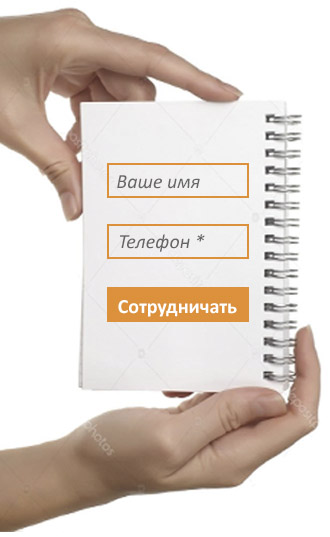
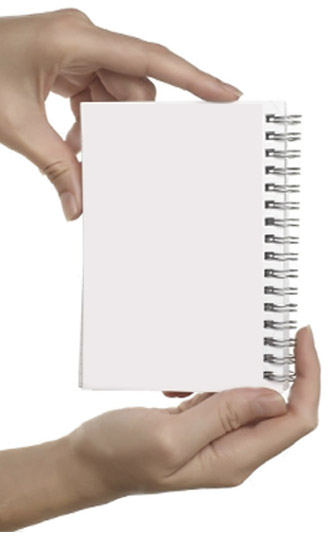
Final version

diff --git a/index.html b/index.html
@@ -22,13 +22,15 @@
         <a class="header-phone" href="tel:88005001415">8-800-500-14-15</a>
     </header>
     <section class="hero">
-        <div class="hero-text">У Вас <b>фотосалон</b>?<br>
-            Зарабатывайте больше,<br>
-            предлагая клиентам<br>
-            полиграфию
+        <div class="text">У Вас <b>фотосалон</b>?
+            <br>Зарабатывайте больше,
+            <br>предлагая клиентам
+            <br>полиграфию
         </div>
-        <input type="text" placeholder="Ваш телефон">
-        <div class="button">Перезвоните мне</div>
+        <div class="form-wrapper">
+            <input type="text" class="input" placeholder="Ваш телефон">
+            <input type="button" class="button" value="Перезвоните мне">
+        </div>
     </section>
     <section class="s1">
         <h2 class="h2">Единственный в мире ТОЧНЫЙ КАЛЬКУЛЯТОР СТОИМОСТИ – только в типографии «Новатум»</h2>
@@ -44,12 +46,17 @@
             <br>Ваш фотосалон сэкономит время + заработает на каждом заказе.
         </div>
         <div class="form-wrapper">
-            <input type="text" placeholder="Как к Вам обращаться">
-            <input type="text" placeholder="Ваш телефон">
+            <input type="text" class="input" placeholder="Как к Вам обращаться">
+            <input type="text" class="input" placeholder="Ваш телефон">
             <input type="button" class="button" value="Начать сотрудничество">
         </div>
     </section>
     <section class="s3">
+        <div class="form-wrapper">
+            <input type="text" class="input" placeholder="Ваше имя">
+            <input type="text" class="input" placeholder="Телефон">
+            <input type="button" class="button" value="Сотрудничать">
+        </div>
         <h2 class="h2-work">Как мы <span class="h2-work-select">работаем?</span></h2>
         <ul>
             <li>Оставьте заявку на партнёрство</li>
@@ -58,7 +65,7 @@
             <li>Клиенты оплачивают заказы с вашей наценкой.</li>
             <li>Мы возвращаем наценку на Ваш расчётный счет. Ваша наценка = Ваш чистый доход<sup>*</sup>.</li>
         </ul>
-        * за вычетом 6% налога на прибыль. Налог вычитается только с наценки, а не со всего заказа.
+        <div class="text-remark">* за вычетом 6% налога на прибыль. Налог вычитается только с наценки, а не со всего заказа.</div>
     </section>
     <section class="s4">
         <h2 class="h2 text-center">ГЛАВНОЕ ОТЛИЧИЕ «НОВАТУМ»</h2>
@@ -75,25 +82,25 @@
     </section>
     <section class="s5">
         <h2 class="h2">Как это возможно?</h2>
-        <div class="text">В Вашем личном кабинете будет уникальный калькулятор стоимости, который учитывает ВСЕ параметры. Да-да, абсолютно все, несколько сотен коэффициентов. Вы сами за пару минут вычислите стоимость любого заказа.  Больше не нужно звонить менеджерам, ждать расчета стоимости, согласовывать правки – вся рутина в прошлом. Можете оценить наш калькулятор прямо сейчас.</div>
+        <div class="text">В Вашем личном кабинете будет уникальный калькулятор стоимости, который учитывает ВСЕ параметры. Да-да, абсолютно все, несколько сотен коэффициентов. Вы сами за пару минут вычислите стоимость любого заказа.  Больше не нужно звонить менеджерам, ждать расчета стоимости, согласовывать правки – вся рутина в прошлом. Можете оценить наш <a href="calculator.novatum.ru">калькулятор</a> прямо сейчас.</div>
         <h2 class="h2">Почему в «Новатум» цены ниже?</h2>
-        <div class="text">Вы – профессионал в дизайне, поэтому предоставляете макеты без ошибок. Это экономит Типографии массу времени: не нужно проверять макеты вручную, править, согласовывать. Макеты проходят только автоматическую проверку. Это позволяет предложить самые низкие цены в Москве и Московской области. 
-            <br>Убедитесь сами, рассчитав заказ в калькуляторе стоимости. Например:
+        <div class="text">Вы – профессионал в дизайне, поэтому предоставляете макеты без ошибок. Это экономит Типографии массу времени: не нужно проверять макеты вручную, править, согласовывать. Макеты проходят только автоматическую проверку. Это позволяет предложить самые низкие цены в Москве и Московской области. <br>Убедитесь сами, рассчитав заказ в <a href="calculator.novatum.ru">калькуляторе стоимости</a>. Например:
             <br>100 визиток (4+0) – 200 р (среднерыночная цена 500 р, Ваша наценка может быть 150%). 
             <br>1000 листовок (4+0, А6) – 1000 р (среднерыночная цена 2000 р, ваша наценка 100%)
         </div>
-        <div class="button">Стать партнером</div>
+        <input type="button" class="button" value="Стать партнером">
     </section>
     <section class="s6">
         <h2 class="h2">Сколько времени займет подключение к “Новатум”?</h2>
         <div class="text">Всего ОДИН день. После подписания договора, мы пришлем Вам индивидуальную ссылку на калькулятор. Поздравляем! Можно начать зарабатывать</div>
         <h2 class="h2">Сколько стоит партнерство?</h2>
         <div class="text">Это <b>БЕСПЛАТНО</b>.
-            <br>Мы зарабатываем исключительно на печати и делимся прибылью с Вами.</div>
+            <br>Мы зарабатываем исключительно на печати и делимся прибылью с Вами.
+        </div>
     </section>
     <section class="s7">
         <h1 class="h1">Новатум. Типография, которую Вы ждали</h1>
-        <div class="text">«Новатум» – дочерний проект сети типографий «Компания ИРМ-1», которые работают в Москве и Московской области с 1997 года. 
+        <div class="text">«Новатум» – дочерний проект сети типографий «Компания ИРМ-1», которые работают в Москве и Московской области <span class="text-accent">с 1997 года</span>. 
             <br>Наша формула успеха = гигантский опыт + новейшие технологии.</div>
         <div class="text">Оцените преимущество работы с профессионалами:</div>
         <input type="button" class="button" value="Начать сотрудничество">

diff --git a/mobile.css b/mobile.css
@@ -19,10 +19,23 @@ a {
 .main-wrapper {
     margin:0 auto;
     background-color:#fff;
+    min-width:420px;
 }
 
-.text :not(last-child){
+.text {
     margin-bottom:1rem;
+}
+
+.hero > .text {
+    font-size:1.5rem;
+    position:absolute;
+    bottom:30px;
+    right:125px;
+}
+
+.text-accent {
+    color: rgb(237,120,0);
+    font-weight:700;
 }
 
 .header, .footer {
@@ -76,26 +89,65 @@ a {
 }
 
 section {
-    padding:2rem 2rem;
+    padding:0.5rem 2rem;
     font-size:1rem;
     background-position: bottom right;
     display:flex;
     flex-direction:column;
+    padding-bottom:2rem;
 }
 
 .hero {
     background-image: url("/pic/01.jpg");
     position:relative;
-    height: 480px;
+    min-height: 480px;
     color:white;
     background-position: 100% 100%;
+    padding-top: 115px;
+    padding-left: 80px;
 }
 
 .s2 {
     background-image: url("/pic/02.jpg");
     position:relative;
-    height: 600px;
+    min-height: 600px;
     color:white;
+}
+
+.s3 {
+    background-image: url("/pic/03.jpg");
+    background-position:left top;
+    position:relative;
+    background-repeat:no-repeat;
+    min-height:537px;
+    /* padding-left:350px; */
+    padding-left:4rem;
+    padding-top:500px;
+}
+
+.s3 li {
+    background: url("/pic/marker.png") no-repeat left center;
+    /* min-height:59px; */
+    padding: 1rem 0 1rem 60px;
+}
+
+.s3 > .form-wrapper {
+    width:145px;
+    height:160px;
+    position:absolute;
+    left:100px;
+    top:160px;
+}
+
+.s3 > .form-wrapper > .button {
+    padding:0.5rem;
+    font-size:1rem;
+}
+
+.text-remark {
+    font-size:0.7rem;
+    font-style:italic;
+    padding-top:1rem;
 }
 
 .s4 {
@@ -110,38 +162,27 @@ section {
 
 .column {
     width:45%;
-
 }
 
 .s5 {
     background-image: url("/pic/04.jpg");
     position:relative;
-    height: 560px;
+    min-height: 560px;
     color:white;
 }
 
-.s5 .button {
-    width:18rem;
-    height:2.7rem;
-    margin-top:1rem;
-}
+
 
 .s7 {
     background-image: url("/pic/05.jpg");
     position:relative;
-    height: 510px;
+    min-height: 510px;
     color:white;
     align-items:center;
     font-size:1.2rem;
     justify-content:center;
     padding: 2rem 4rem;
     text-align:center;
-}
-
-.s7 .button {
-    width:18rem;
-    height:3.2rem;
-    margin-top:2rem;
 }
 
 .h3 {
@@ -154,14 +195,16 @@ section {
     color: rgb(237,120,0);
     font-size:1.2rem;
     font-weight:bold;
-    margin-bottom:1.2rem;
+    display:block;
+    padding:1.2rem 0;
 }
 
-.h2 :not(first-child) {
-    margin-top:1.2rem;
+.text + .h2{
+    padding-top:0;
 }
 
 .h2-work {
+    padding:1.2rem 0;
     font-weight:300;
     text-transform:uppercase;
 }
@@ -185,18 +228,73 @@ section {
 
 .button {
     color: white;
-    background-color: rgb(237,120,0);
-    padding:0.5rem;
+    background-color:rgb(237,120,0);
+    padding:1rem;
     font-weight:700;
     font-size:1.2rem;
     text-align:center;
-    max-width:21rem;
     cursor:pointer;
+}
+
+.button:active {
+    border-left: 1px #777 solid;
+    border-top: 1px #777 solid;
+    border-right: 1px white solid;
+    border-bottom: 1px white solid;
+}
+
+section > .button {
     align-self:center;
+}
+
+.s5 .button {
+    width:18rem;
+    height:3.2rem;
+    margin-top:1rem;
+}
+
+.s7 .button {
+    width:18rem;
+    height:3.2rem;
+    margin-top:2rem;
+}
+
+.input {
+    border: 3px rgb(237,120,0) solid;
+    margin-bottom: 1rem;
+    padding: 0.5rem;
+    font-size:1rem;
+    font-style:italic;
+}
+
+.s2 > .form-wrapper > .input {
+    min-width: 15rem;
+}
+
+.input:focus {
+    background-color:rgb(255, 255, 170);
 }
 
 .form-wrapper {
     display:flex;
     flex-direction:column;
+}
+
+.s2 > .form-wrapper {
     align-items:flex-start;
+    max-width:20rem;
+}
+
+.hero > .form-wrapper {
+    width:205px;
+    height:105px;
+    position:absolute;
+    right:195px;
+    bottom:250px;
+}
+
+.hero > .form-wrapper > .button {
+    height: 2.7rem;
+    padding:0.8rem;
+    font-size:1rem;
 }

diff --git a/desktop.css b/desktop.css
@@ -1,20 +1,7 @@
 @media (min-width:450px) {
 
-html {
-    
-}
-
-body {
-}
-
 .main-wrapper {
     max-width:844px;
-}
-
-section {
-}
-
-.header, .footer {
 }
 
 .header {
@@ -30,34 +17,40 @@ section {
     }
 }
 
-.header-logo-text {
-
-}
-
-.footer {
-
+.hero > .text {
+    position:relative;
+    bottom:0;
+    right:0;
 }
 
 .hero {
-    height: 480px;
+    background-position:right bottom;
 }
 
-.s2 {
-    height: 600px;
+@media (max-width:800px) {
+    .hero {
+        padding-left:2rem;
+    }
 }
 
-.s5 {
-    height: 560px;
+@media (max-width:747px) {
+    .hero > .text {
+        position:absolute;
+        bottom:30px;
+        right:125px;
+    }
 }
 
-.s7 {
-    height: 510px;
+.s3 {
+    padding-left:350px;
+    padding-top: 0;
 }
 
-.h2 {
+@media (max-width:570px) {
+    .s3 {
+        padding-left:4rem;
+        padding-top:500px;
+    }
 }
 
-.h1 {
-
-}
 }
